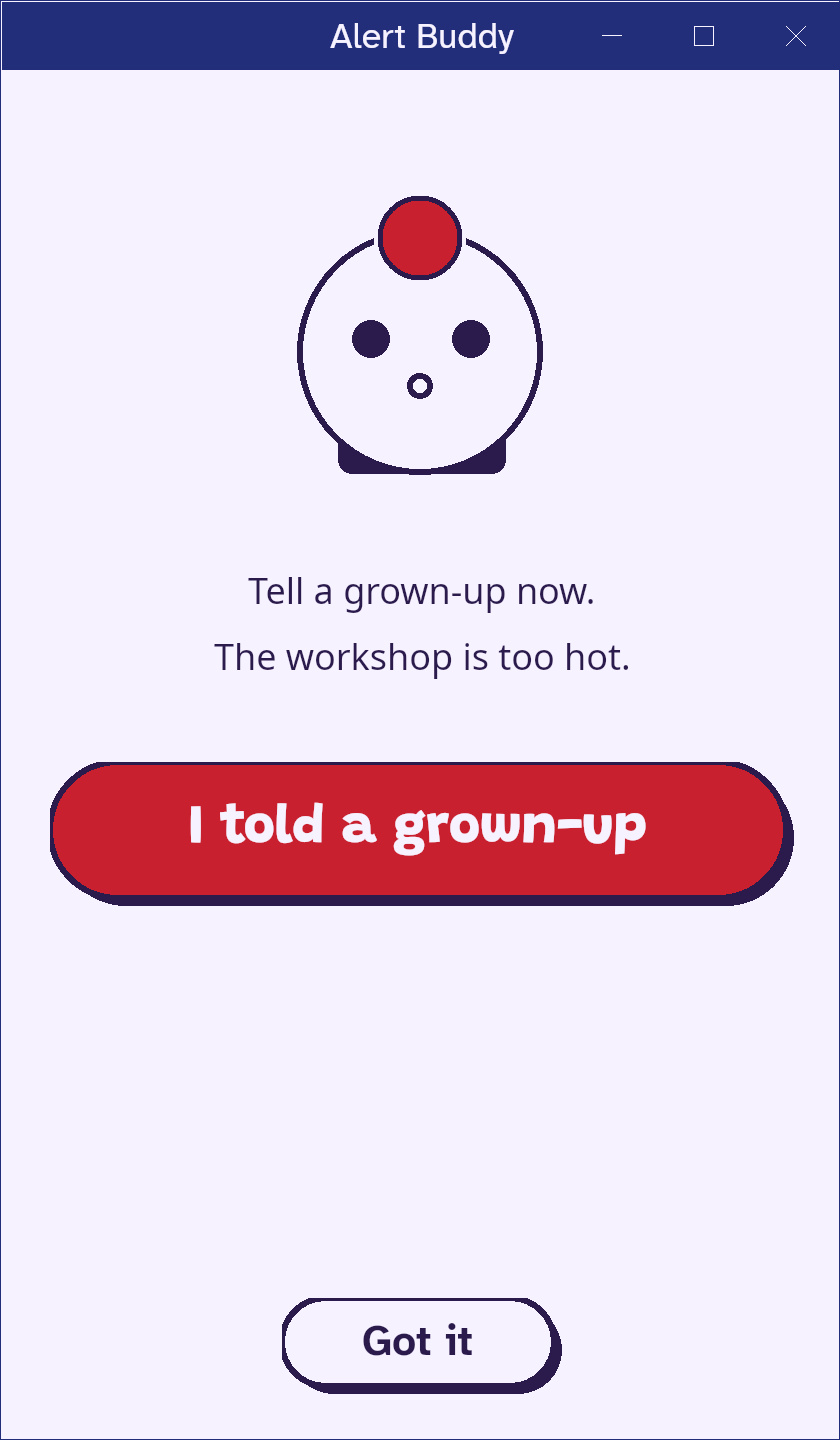
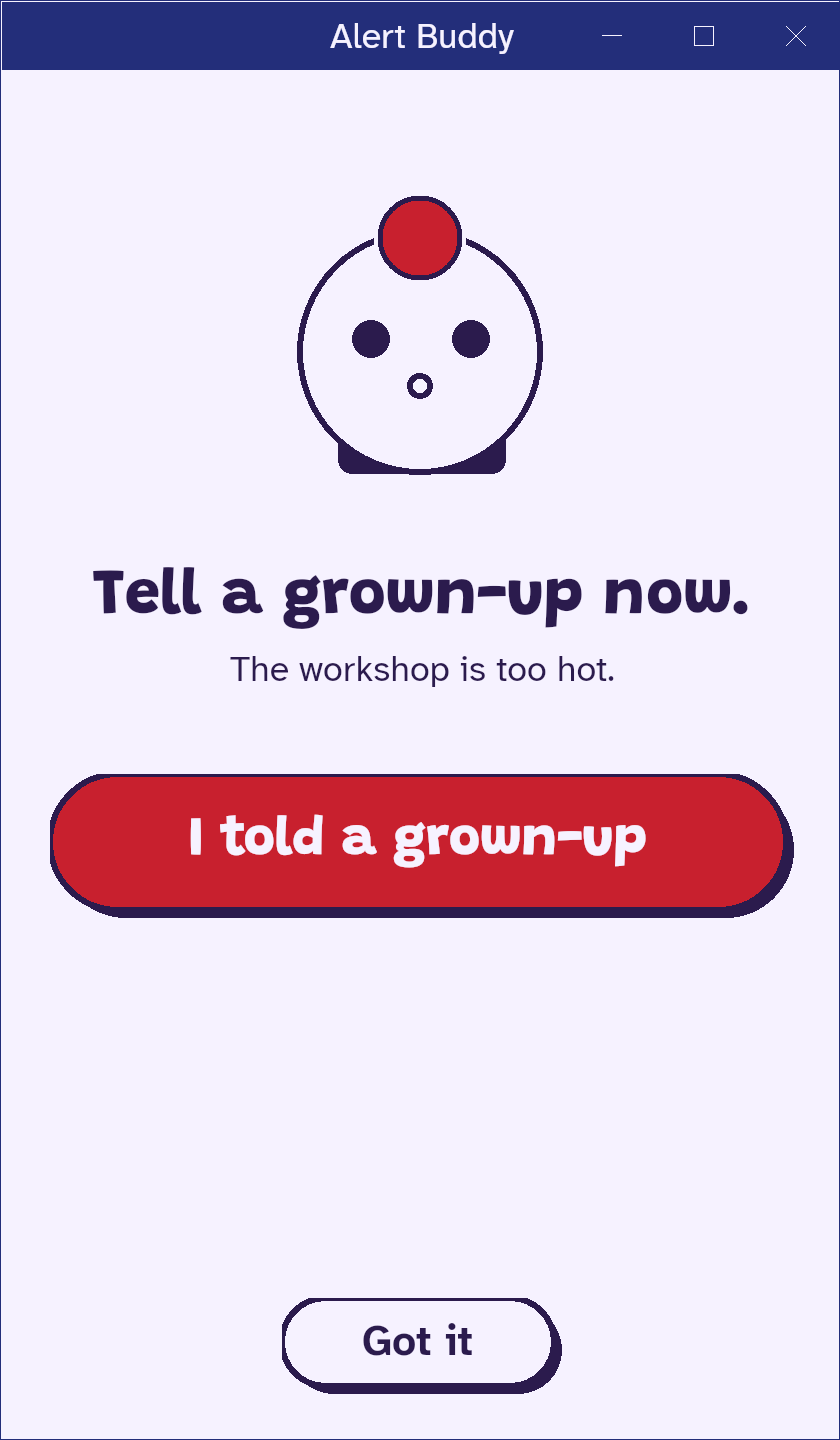
Draw body text in Atkinson Hyperlegible, and make the alarm's instruction big
Labels, text boxes, check boxes, drop-downs and number boxes had no font family, so they used whatever sans-serif
the machine had (Roboto on the emulator, Noto here, something else on CI): different widths everywhere, and not
the typeface the design asks for. The theme now names it. The alarm's first line is set in the buddy's display face
at 24. Golden images refreshed after looking at them; a test fails if plain text falls back.

Changed region(s): [[0.0619, 0.5312, 0.9595, 0.6562], [0.0929, 0.375, 0.8976, 0.4688]]

diff --git a/tests/AlertBuddy.Shared.Tests/SmokeTests.cs b/tests/AlertBuddy.Shared.Tests/SmokeTests.cs
@@ -172,6 +172,33 @@ namespace AlertBuddy.Shared.Tests
             Assert.False (bundled.AsSpan ().SequenceEqual (fallback), "the bundled family drew exactly what an unknown family draws");
         }
 
+        [Theory]
+        [InlineData (AlertBuddy.Core.Settings.LookPreference.Day)]
+        [InlineData (AlertBuddy.Core.Settings.LookPreference.Night)]
+        public void PlainText_IsDrawnInTheBundledBodyFont_NotWhateverTheMachineHas (AlertBuddy.Core.Settings.LookPreference look)
+        {
+            // Body text used to fall back to the platform's own sans-serif, so it differed from machine to machine (Roboto on the emulator,
+            // Noto on one Linux box, something else on CI) and was not the Atkinson Hyperlegible the design asks for. The theme names the family.
+            AlertBuddy.Shared.Theme.AlertBuddyTheme.Apply (look);
+            byte[] Render (Func<Majorsilence.Forms.Drawing.Font>? font)
+            {
+                var form = new Majorsilence.Forms.Form { ClientSize = new System.Drawing.Size (420, 80), FormBorderStyle = Majorsilence.Forms.FormBorderStyle.None };
+                var label = new Majorsilence.Forms.Label { AutoSize = true, Text = "Pip is keeping watch", Location = new System.Drawing.Point (10, 10) };
+                if (font is not null)
+                    label.Font = font ();
+                form.Controls.Add (label);
+                return HeadlessRenderer.CapturePng (form, 420, 80);
+            }
+
+            var themed = Render (null);
+            // The theme's 18px is 13.5 in the font's own units.
+            var explicitBody = Render (() => AlertBuddy.Shared.Theme.AlertFonts.Body (13.5f));
+            var fallback = Render (() => new Majorsilence.Forms.Drawing.Font ("NoSuchFamilyAnywhere", 13.5f));
+
+            Assert.True (themed.AsSpan ().SequenceEqual (explicitBody), "an unstyled label did not draw in the bundled body font");
+            Assert.False (themed.AsSpan ().SequenceEqual (fallback), "an unstyled label drew the platform fallback");
+        }
+
         [Fact (Skip = "majorsilence/Majorsilence.Forms#366: a themed TextBox loses its border while focused; unskip when it is released")]
         public void AFocusedTextBox_KeepsItsInkBorder ()
         {

diff --git a/src/AlertBuddy.Shared/Theme/AlertBuddyTheme.cs b/src/AlertBuddy.Shared/Theme/AlertBuddyTheme.cs
@@ -28,6 +28,7 @@ namespace AlertBuddy.Shared.Theme
               --ui-font: "Atkinson Hyperlegible Next", "Atkinson Hyperlegible", "Noto Sans", sans-serif;
             }
             Form    { background-color: #F6F2FF; color: #2B1B4D; font-size: 18px; }
+            Label, TextBox, CheckBox, ComboBox, NumericUpDown { font-family: "Atkinson Hyperlegible Next"; }
             TextBox { background-color: #FFFFFF; color: #2B1B4D; border: 3px solid #2B1B4D; border-radius: 14px; }
             ScrollBar::thumb { background-color: #2B1B4D; border-radius: 6px; }
             """;
@@ -48,6 +49,7 @@ namespace AlertBuddy.Shared.Theme
               --ui-font: "Atkinson Hyperlegible Next", "Atkinson Hyperlegible", "Noto Sans", sans-serif;
             }
             Form    { background-color: #232E7A; color: #F6F2FF; font-size: 18px; }
+            Label, TextBox, CheckBox, ComboBox, NumericUpDown { font-family: "Atkinson Hyperlegible Next"; }
             TextBox { background-color: #2B1B4D; color: #F6F2FF; border: 3px solid #F6F2FF; border-radius: 14px; }
             ScrollBar::thumb { background-color: #F6F2FF; border-radius: 6px; }
             """;

diff --git a/src/AlertBuddy.Shared/Views/AlarmView.cs b/src/AlertBuddy.Shared/Views/AlarmView.cs
@@ -35,7 +35,8 @@ namespace AlertBuddy.Shared.Views
             beacon = new BeaconBuddy { Size = new Size (200, 200), Level = BeaconMood.Alarm }.Named ("alarm.buddy");
             Controls.Add (beacon);
 
-            heading = new Label { AutoSize = true, Text = vm.Heading, ForeColor = AlertPalette.OnGround };
+            // The one instruction on the one screen that must be understood at a glance: big, in the buddy's own face.
+            heading = new Label { AutoSize = true, Text = vm.Heading, ForeColor = AlertPalette.OnGround, Font = AlertFonts.Display (24) };
             Controls.Add (heading);
 
             detail = new Label { AutoSize = true, ForeColor = AlertPalette.OnGround };
